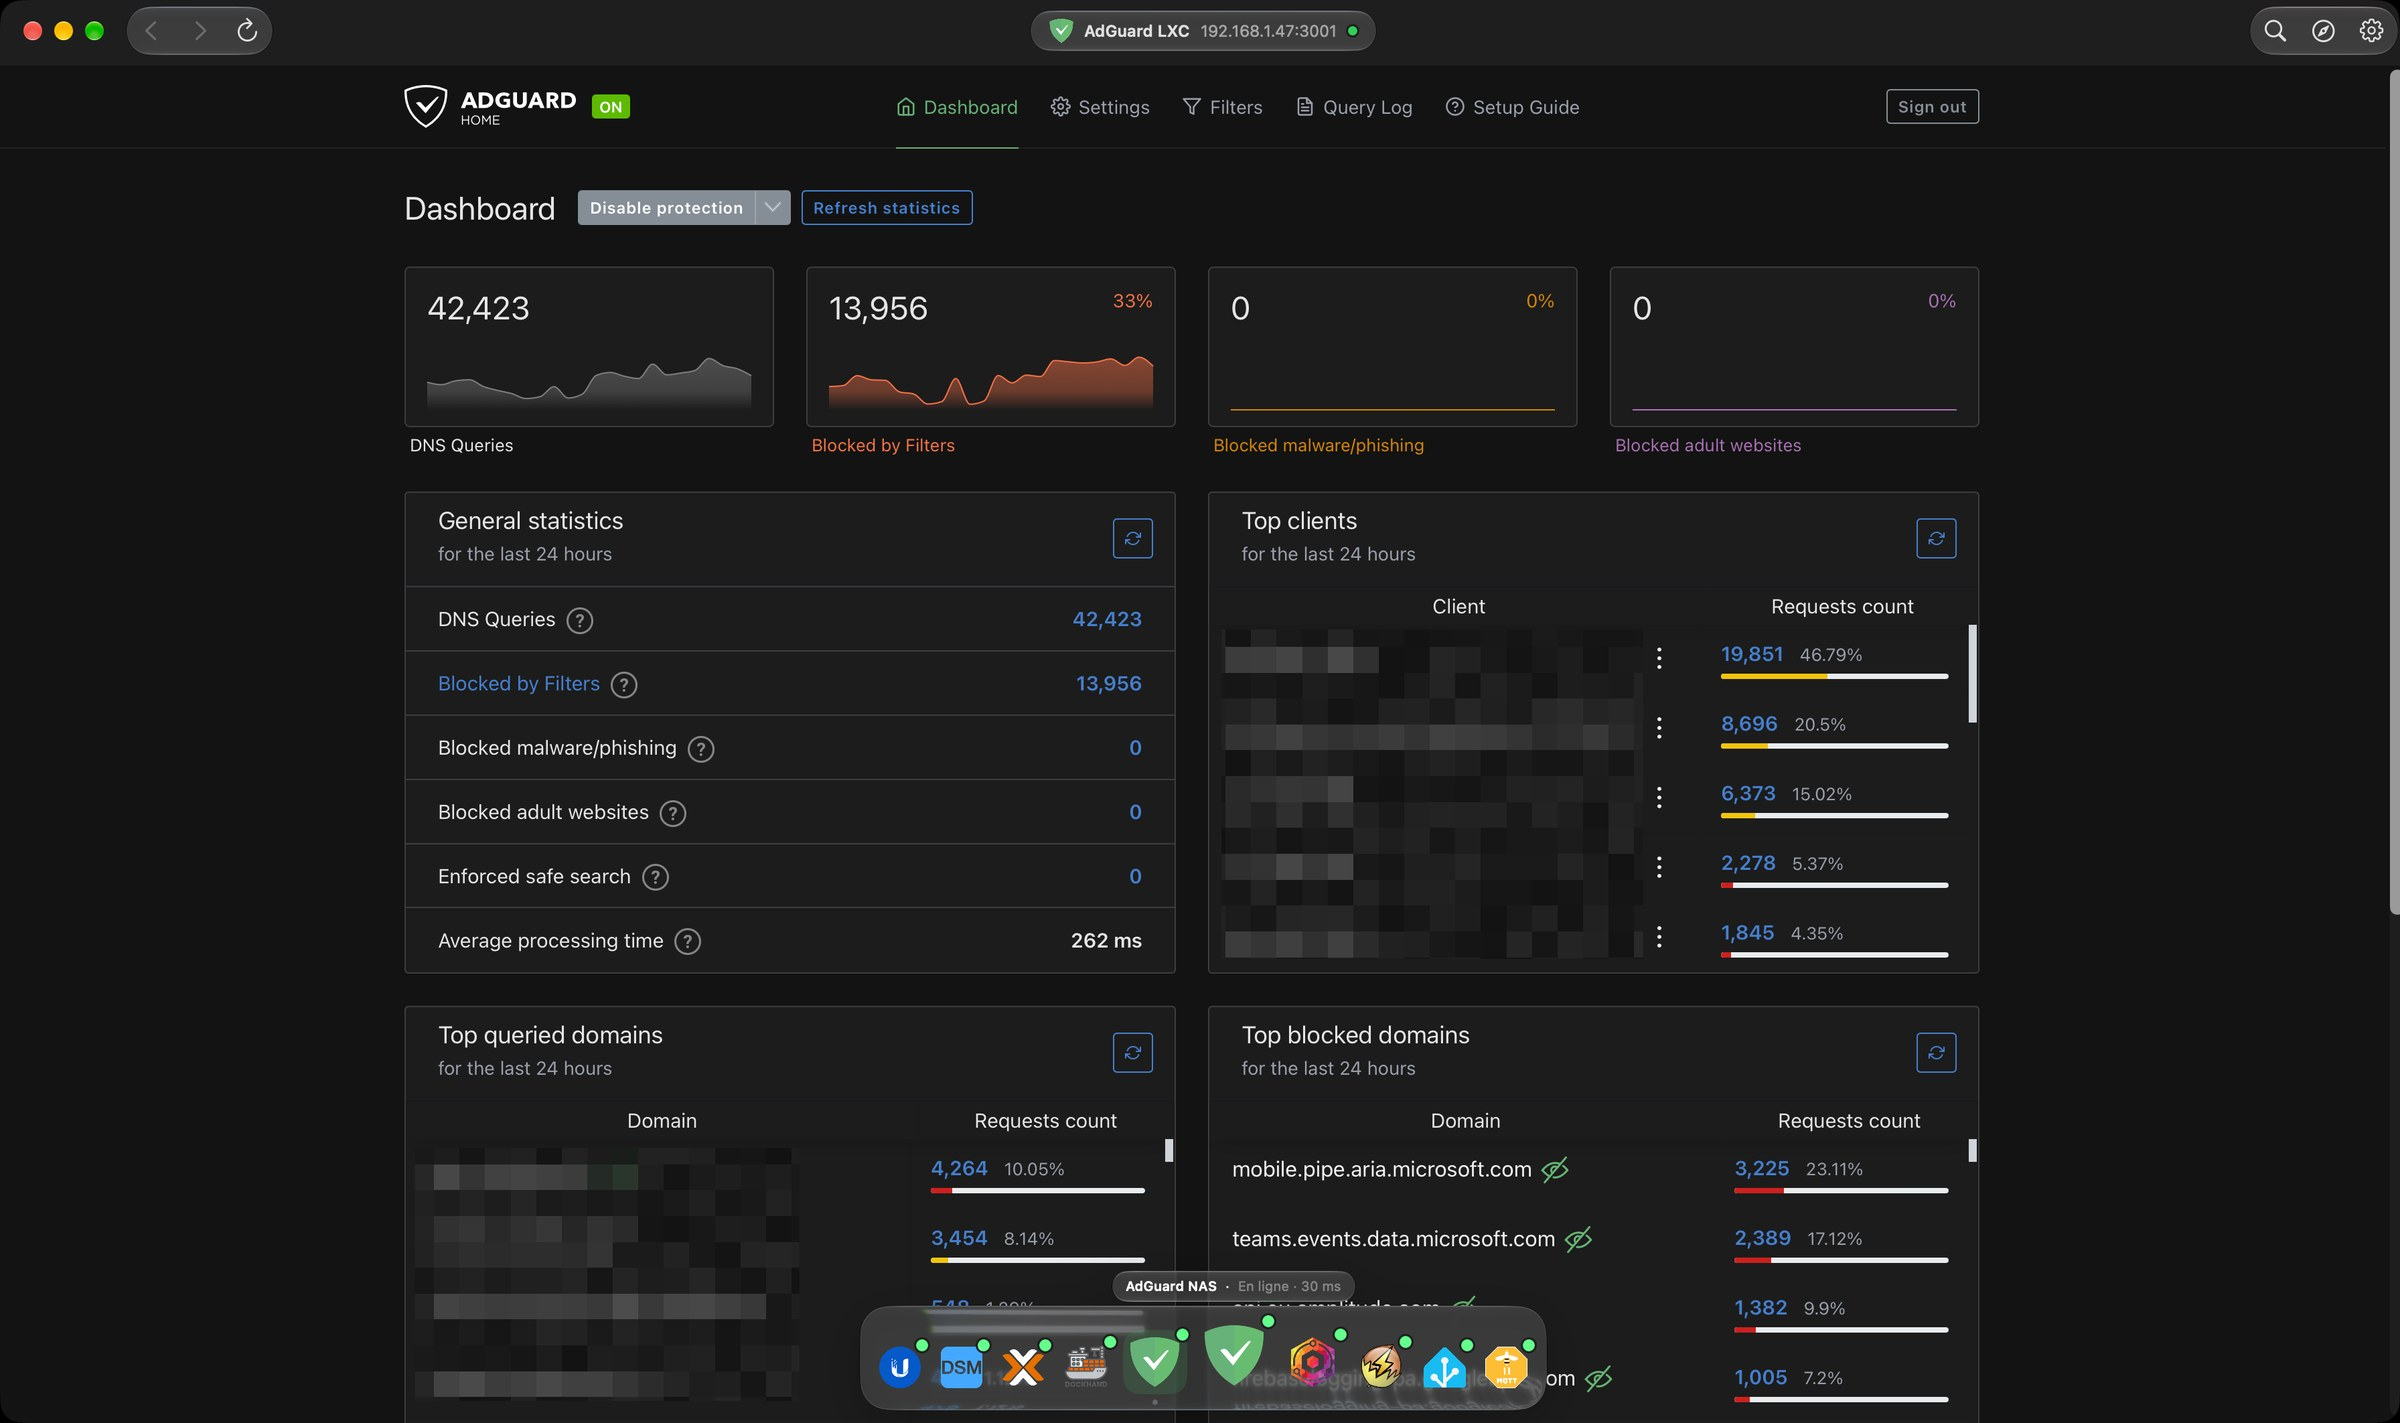
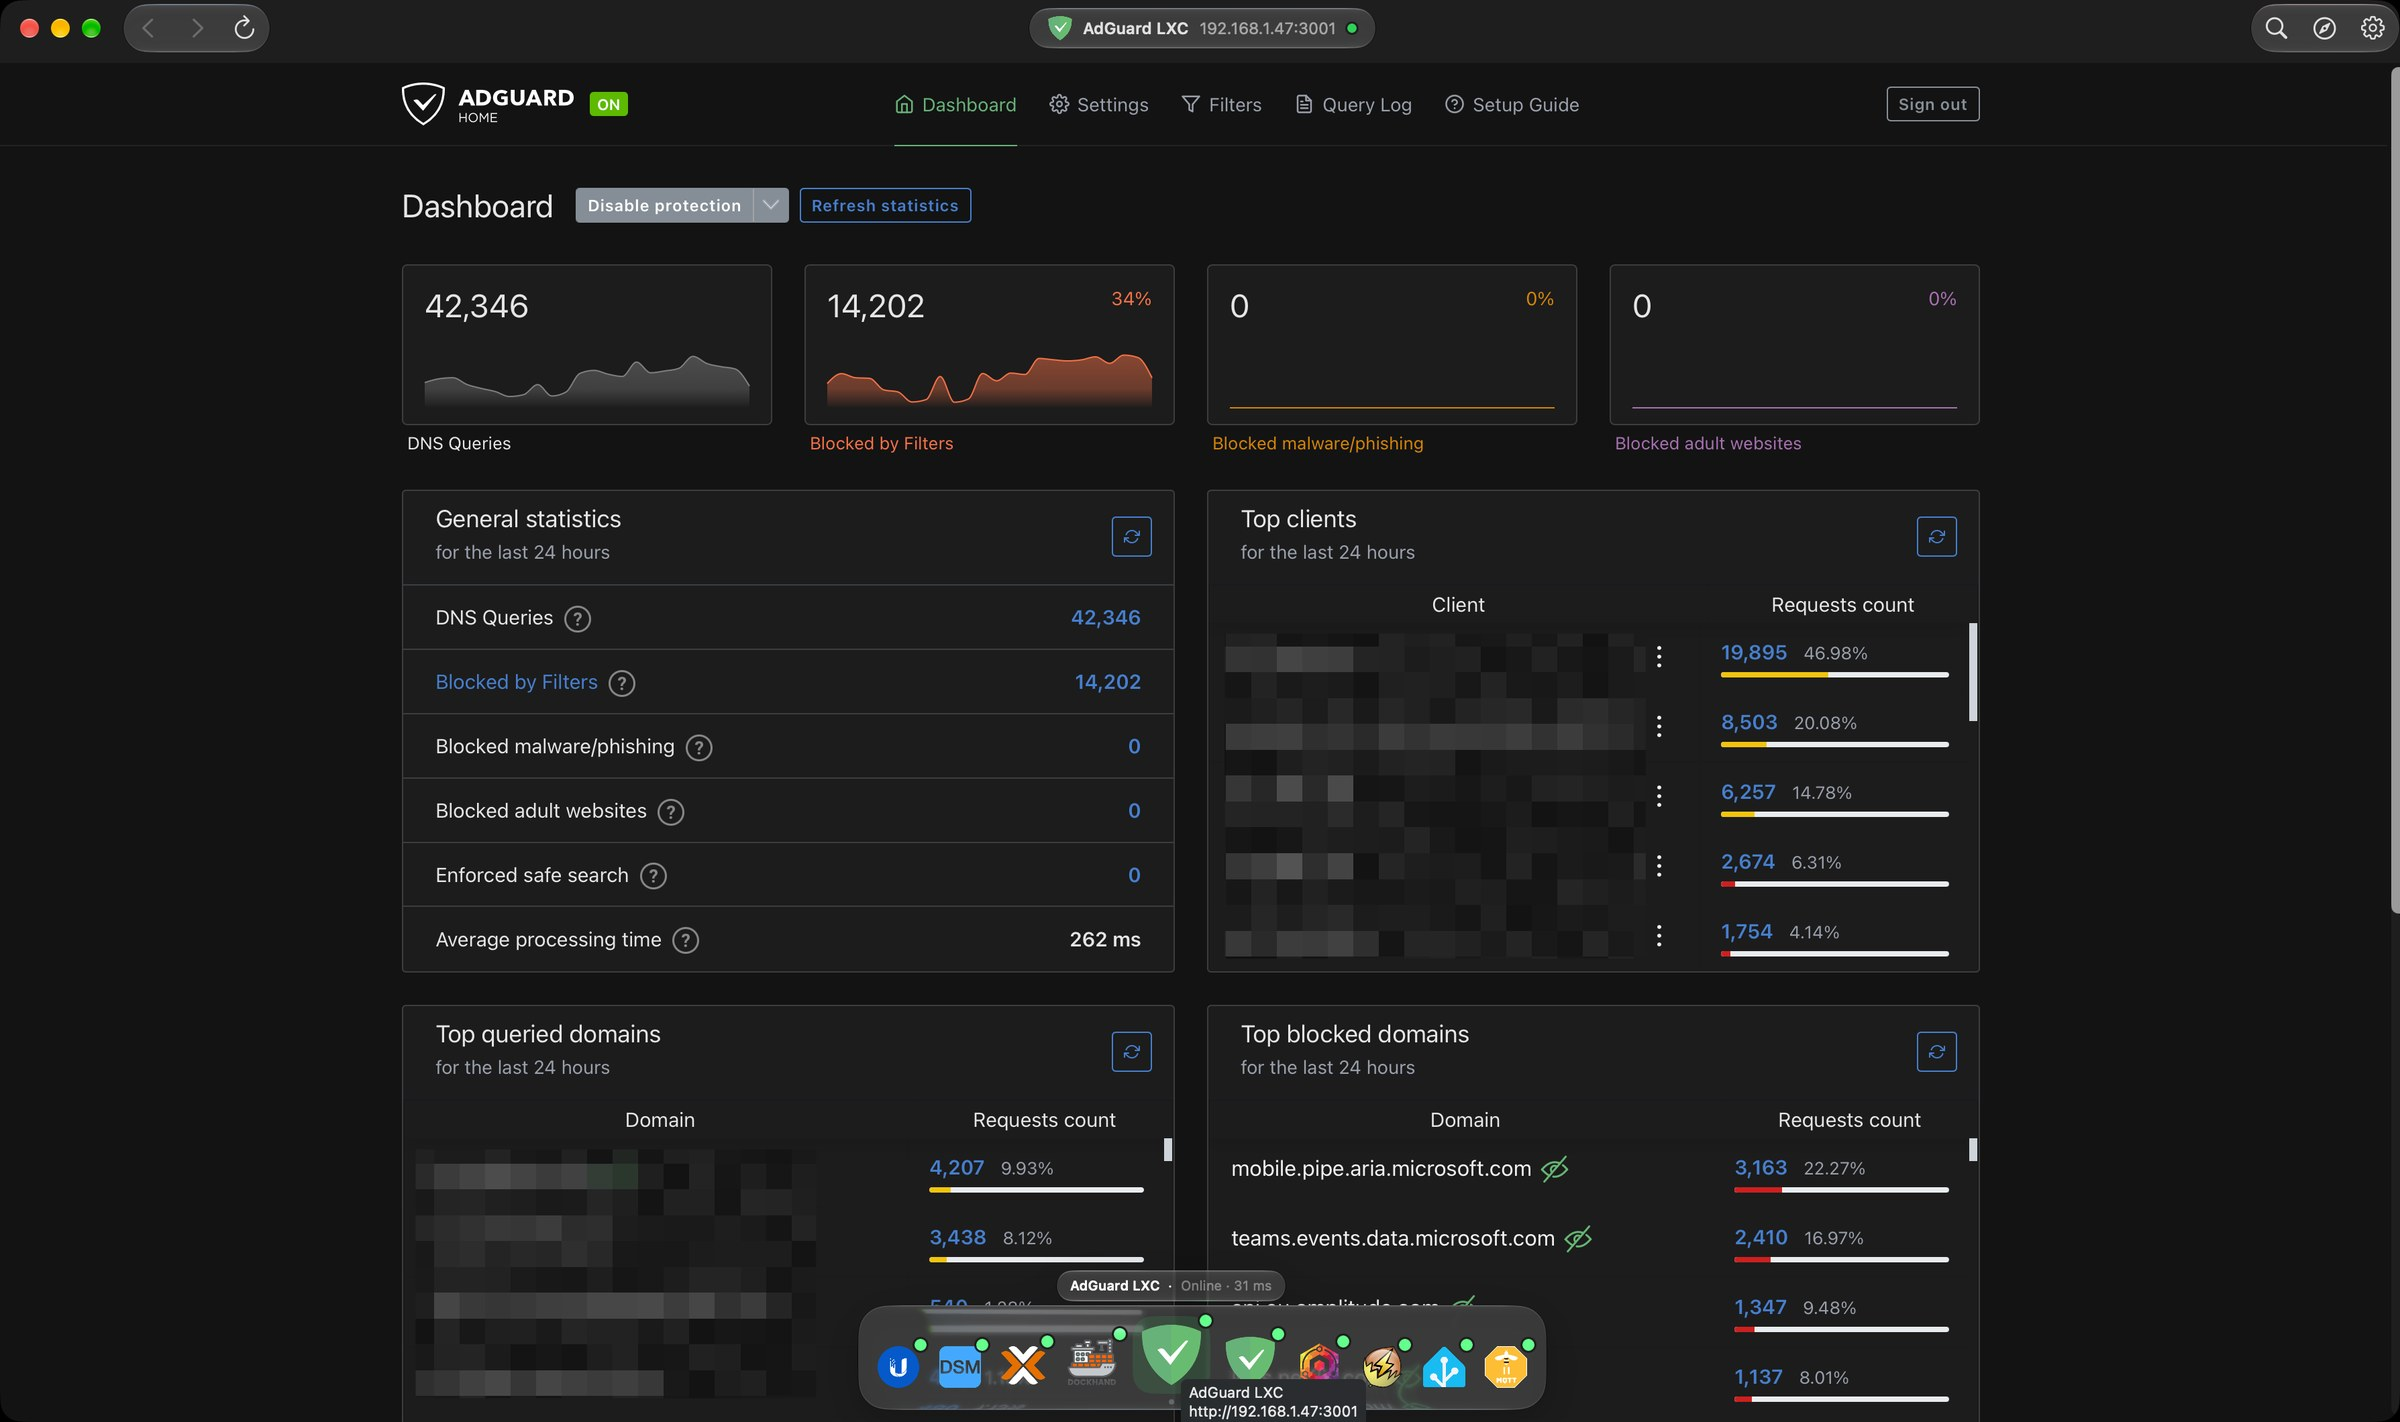
LabPanel: English dock and switcher screenshots
Claude-Session: https://claude.ai/code/session_01HXmSLPHGpMz8YXiJF6cQm9

diff --git a/src/data/labpanel.ts b/src/data/labpanel.ts
@@ -2,11 +2,13 @@ import type { App } from './types';
 import icon from '../assets/apps/labpanel-icon.png?url';
 import home from '../assets/apps/labpanel-home.jpg';
 import dock from '../assets/apps/labpanel-dock.jpg';
+import dockFr from '../assets/apps/labpanel-dock-fr.jpg';
 import switcher from '../assets/apps/labpanel-switcher.jpg';
+import switcherFr from '../assets/apps/labpanel-switcher-fr.jpg';
 import settings from '../assets/apps/labpanel-settings.jpg';
 import settingsFr from '../assets/apps/labpanel-settings-fr.jpg';
 
-// The home, dock and switcher screenshots are the same in both languages.
+// The home screenshot has no interface text: it is used for both languages.
 const both = <V,>(v: V) => ({ en: v, fr: v });
 
 export const labpanel: App = {
@@ -86,7 +88,7 @@ export const labpanel: App = {
       heading: { en: 'Or a floating dock', fr: 'Ou un dock flottant' },
       glyph: 'grid',
       color: '#7c3aed',
-      screenshot: both(dock),
+      screenshot: { en: dock, fr: dockFr },
       screenshotAlt: { en: 'The floating dock at the bottom of LabPanel', fr: 'Le dock flottant en bas de LabPanel' },
       summary: {
         en: 'Prefer the tabs at the bottom? A floating glass dock, with icons that grow under the pointer like the macOS Dock and each service’s name and status above its icon.',
@@ -109,7 +111,7 @@ export const labpanel: App = {
       heading: { en: 'Anywhere in a few keystrokes', fr: 'Partout en quelques touches' },
       glyph: 'keyboard',
       color: '#a855f7',
-      screenshot: both(switcher),
+      screenshot: { en: switcher, fr: switcherFr },
       screenshotAlt: { en: 'The ⌘K quick switcher in LabPanel', fr: 'Le sélecteur rapide ⌘K de LabPanel' },
       summary: {
         en: 'Press ⌘K, type a few letters (prox, ha for Home Assistant, part of an address), Enter, and you’re there.',
